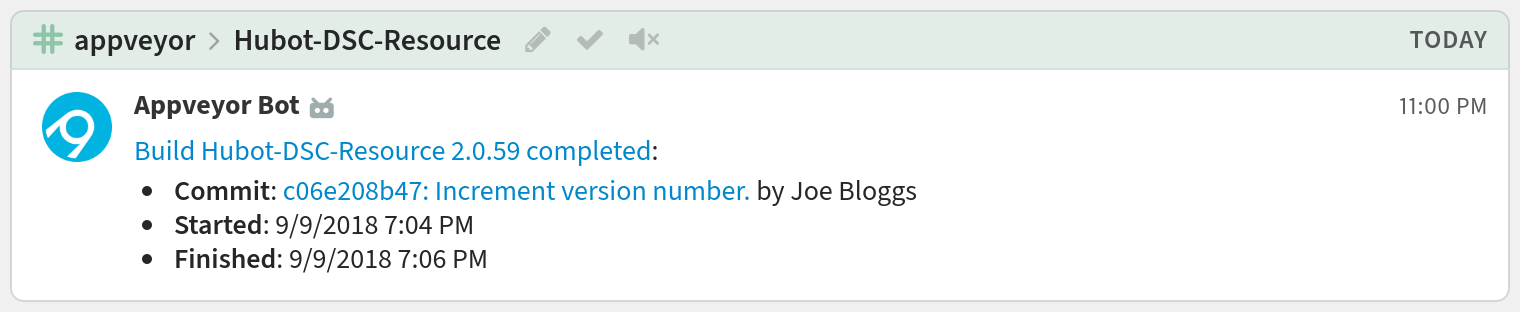
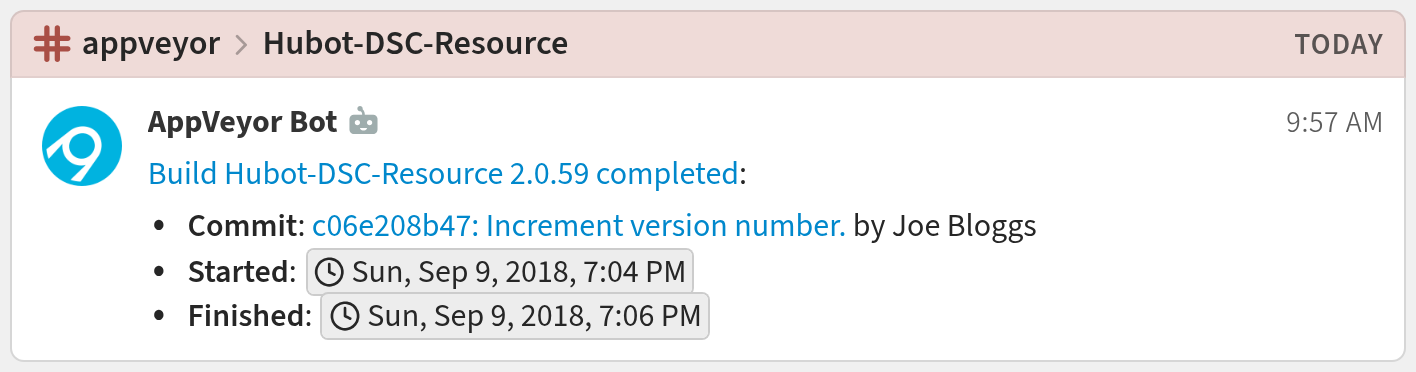
integrations/appveyor: Use global time.

diff --git a/zerver/webhooks/appveyor/tests.py b/zerver/webhooks/appveyor/tests.py
@@ -14,8 +14,8 @@ class AppveyorHookTests(WebhookTestCase):
         expected_message = """
 [Build Hubot-DSC-Resource 2.0.59 completed](https://ci.appveyor.com/project/joebloggs/hubot-dsc-resource/build/2.0.59):
 * **Commit**: [c06e208b47: Increment version number.](https://github.com/joebloggs/Hubot-DSC-Resource/commit/c06e208b47) by Joe Bloggs
-* **Started**: 9/9/2018 7:04 PM
-* **Finished**: 9/9/2018 7:06 PM
+* **Started**: <time:9/9/2018 7:04 PM>
+* **Finished**: <time:9/9/2018 7:06 PM>
 """.strip()
 
         self.check_webhook("appveyor_build_success", expected_topic_name, expected_message)
@@ -28,8 +28,8 @@ class AppveyorHookTests(WebhookTestCase):
         expected_message = """
 [Build Hubot-DSC-Resource 2.0.59 failed](https://ci.appveyor.com/project/joebloggs/hubot-dsc-resource/build/2.0.59):
 * **Commit**: [c06e208b47: Increment version number.](https://github.com/joebloggs/Hubot-DSC-Resource/commit/c06e208b47) by Joe Bloggs
-* **Started**: 9/9/2018 7:04 PM
-* **Finished**: 9/9/2018 7:06 PM
+* **Started**: <time:9/9/2018 7:04 PM>
+* **Finished**: <time:9/9/2018 7:06 PM>
 """.strip()
 
         self.check_webhook("appveyor_build_failure", expected_topic_name, expected_message)

diff --git a/zerver/webhooks/appveyor/view.py b/zerver/webhooks/appveyor/view.py
@@ -12,8 +12,8 @@ APPVEYOR_TOPIC_TEMPLATE = "{project_name}"
 APPVEYOR_MESSAGE_TEMPLATE = """
 [Build {project_name} {build_version} {status}]({build_url}):
 * **Commit**: [{commit_id}: {commit_message}]({commit_url}) by {committer_name}
-* **Started**: {started}
-* **Finished**: {finished}
+* **Started**: <time:{started}>
+* **Finished**: <time:{finished}>
 """.strip()
 
 
